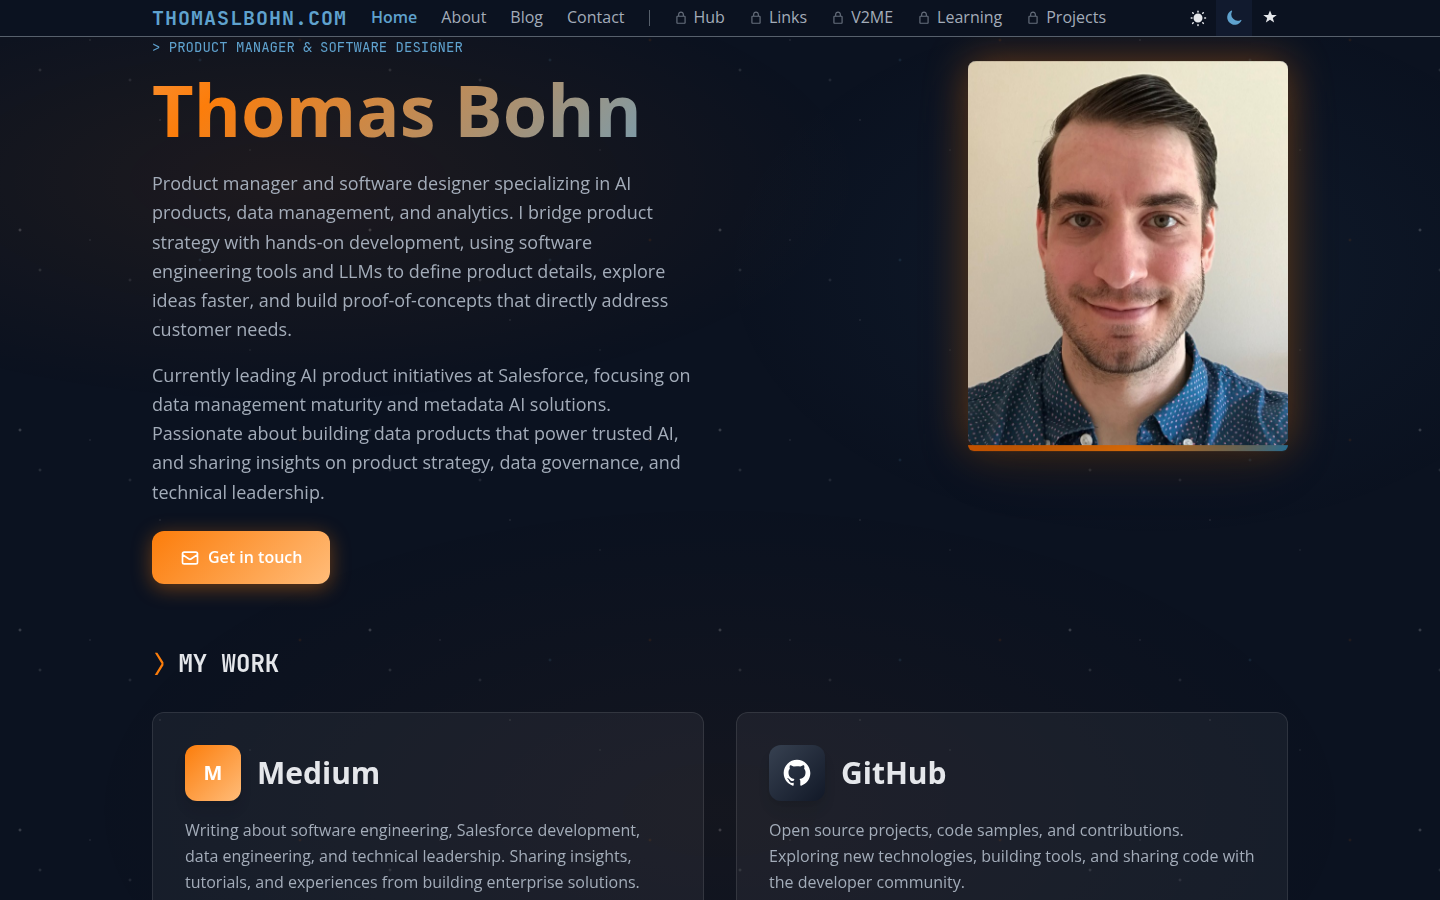
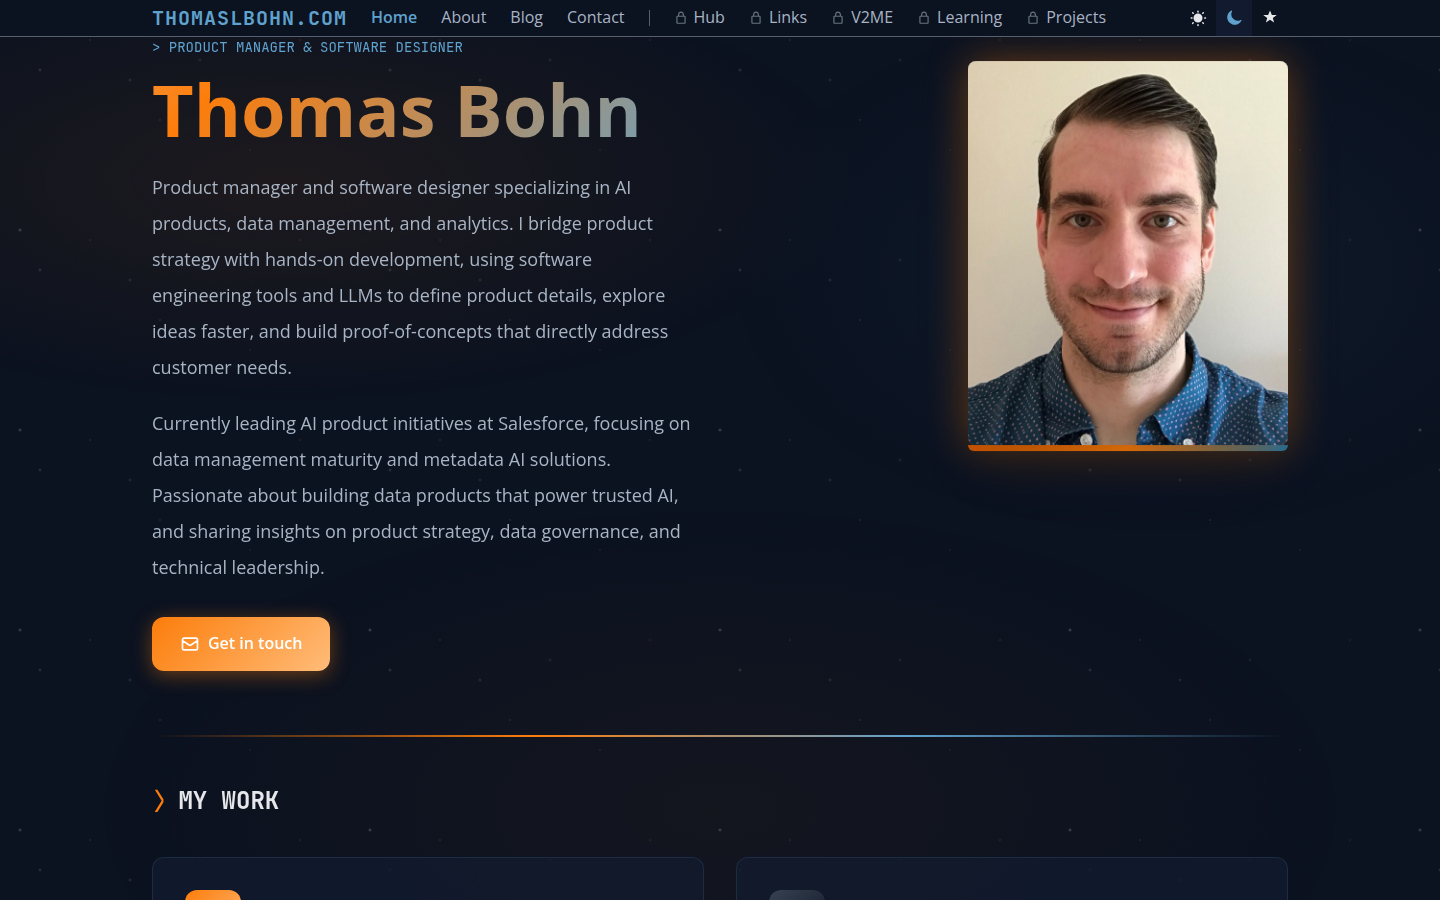
feat: Improve UI readability and visual flow
- Increase line height (leading-loose) for better text readability
- Add gradient divider between hero and content sections on homepage
- Enhance section spacing with more breathing room between sections
- Improve glass card contrast and hover effects in dark mode
- Apply consistent typography improvements across all pages
- Update screenshots to reflect UI improvements

diff --git a/app/about/page.tsx b/app/about/page.tsx
@@ -50,12 +50,12 @@ export default function About() {
 
             {/* Right column - About content */}
             <div className="prose prose-lg max-w-none fade-in-up fade-in-up-delay-2">
-              <section className="mb-8">
-                <h2 className="text-2xl font-semibold mb-4 text-text-primary font-mono flex items-center gap-3">
+              <section className="mb-10">
+                <h2 className="text-2xl font-semibold mb-6 text-text-primary font-mono flex items-center gap-3">
                   <span className="text-accent-orange">{'⟩'}</span>
                   {'ABOUT ME'}
                 </h2>
-              <div className="text-text-secondary leading-relaxed space-y-4">
+              <div className="text-text-secondary leading-loose space-y-5">
                 <p>
                   I&apos;m a product manager and software designer with 15+ years of experience 
                   leading data-driven solutions and AI products. At Salesforce, I serve as Senior 
@@ -104,12 +104,12 @@ export default function About() {
               </div>
             </section>
 
-            <section className="mb-8">
-              <h2 className="text-2xl font-semibold mb-4 text-text-primary font-mono flex items-center gap-3">
+            <section className="mb-10">
+              <h2 className="text-2xl font-semibold mb-6 text-text-primary font-mono flex items-center gap-3">
                 <span className="text-accent-orange">{'⟩'}</span>
                 {'PERSONAL HIGHLIGHTS'}
               </h2>
-              <div className="text-text-secondary leading-relaxed space-y-3">
+              <div className="text-text-secondary leading-loose space-y-4">
                 <p className="flex items-start gap-2">
                   <span className="text-accent mt-1">🎓</span>
                   <span>
@@ -141,12 +141,12 @@ export default function About() {
               </div>
             </section>
 
-            <section className="mb-8">
-              <h2 className="text-2xl font-semibold mb-4 text-text-primary font-mono flex items-center gap-3">
+            <section className="mb-10">
+              <h2 className="text-2xl font-semibold mb-6 text-text-primary font-mono flex items-center gap-3">
                 <span className="text-accent-orange">{'⟩'}</span>
                 {'WHAT DRIVES ME'}
               </h2>
-              <div className="text-text-secondary leading-relaxed space-y-3">
+              <div className="text-text-secondary leading-loose space-y-4">
                 <p className="flex items-start gap-2">
                   <span className="text-accent mt-1">🧩</span>
                   <span>
@@ -178,12 +178,12 @@ export default function About() {
               </div>
             </section>
 
-            <section className="mb-8">
-              <h2 className="text-2xl font-semibold mb-4 text-text-primary font-mono flex items-center gap-3">
+            <section className="mb-10">
+              <h2 className="text-2xl font-semibold mb-6 text-text-primary font-mono flex items-center gap-3">
                 <span className="text-accent-orange">{'⟩'}</span>
                 {'TECHNICAL EXPERTISE'}
               </h2>
-              <div className="text-text-secondary space-y-3">
+              <div className="text-text-secondary space-y-4">
                 <p className="flex items-start gap-2">
                   <span className="text-accent mt-1">🤖</span>
                   <span>
@@ -231,12 +231,12 @@ export default function About() {
               </div>
             </section>
 
-            <section className="mb-8">
-              <h2 className="text-2xl font-semibold mb-4 text-text-primary font-mono flex items-center gap-3">
+            <section className="mb-10">
+              <h2 className="text-2xl font-semibold mb-6 text-text-primary font-mono flex items-center gap-3">
                 <span className="text-accent-orange">{'⟩'}</span>
                 {'ABOUT THIS PAGE'}
               </h2>
-              <div className="text-text-secondary leading-relaxed space-y-4">
+              <div className="text-text-secondary leading-loose space-y-5">
                 <p>
                   Everything you see here I designed myself and implemented with the help of{' '}
                   <strong className="text-text-primary">Cursor AI agents</strong>. The website is built with{' '}

diff --git a/app/page.tsx b/app/page.tsx
@@ -21,13 +21,13 @@ export default function Home() {
                   Thomas Bohn
                 </span>
               </h1>
-              <p className="text-lg text-text-secondary leading-relaxed mb-4">
+              <p className="text-lg text-text-secondary leading-loose mb-5">
               Product manager and software designer specializing in AI products, data management, 
               and analytics. I bridge product strategy with hands-on development, using software 
               engineering tools and LLMs to define product details, explore ideas faster, and build 
               proof-of-concepts that directly address customer needs.
             </p>
-            <p className="text-lg text-text-secondary leading-relaxed mb-6">
+            <p className="text-lg text-text-secondary leading-loose mb-8">
               Currently leading AI product initiatives at Salesforce, focusing on data management 
               maturity and metadata AI solutions. Passionate about building data products that 
               power trusted AI, and sharing insights on product strategy, data governance, and 
@@ -72,9 +72,12 @@ export default function Home() {
           </div>
           </div>
 
+        {/* Gradient Divider */}
+        <hr className="gradient-divider fade-in-up fade-in-up-delay-2" />
+
         {/* Project Cards Section */}
-        <div className="mb-8 fade-in-up fade-in-up-delay-3">
-          <h2 className="text-2xl font-bold mb-8 text-text-primary font-mono flex items-center gap-3">
+        <div className="mb-12 fade-in-up fade-in-up-delay-3">
+          <h2 className="text-2xl font-bold mb-10 text-text-primary font-mono flex items-center gap-3">
             <span className="text-accent-orange">{'⟩'}</span>
             {'MY WORK'}
           </h2>
@@ -88,7 +91,7 @@ export default function Home() {
                 </div>
                 <h3 className="text-3xl font-bold text-text-primary">Medium</h3>
               </div>
-              <p className="text-text-secondary mb-6 leading-relaxed">
+              <p className="text-text-secondary mb-6 leading-loose">
                 Writing about software engineering, Salesforce development, data engineering, 
                 and technical leadership. Sharing insights, tutorials, and experiences from 
                 building enterprise solutions.
@@ -154,7 +157,7 @@ export default function Home() {
                 </div>
                 <h3 className="text-3xl font-bold text-text-primary">GitHub</h3>
               </div>
-              <p className="text-text-secondary mb-6 leading-relaxed">
+              <p className="text-text-secondary mb-6 leading-loose">
                 Open source projects, code samples, and contributions. Exploring new 
                 technologies, building tools, and sharing code with the developer community.
               </p>

diff --git a/app/globals.css b/app/globals.css
@@ -539,30 +539,36 @@ html[data-theme="xanga"] body ::-webkit-scrollbar-thumb:hover {
 
 /* Glassmorphism Card Styles */
 .glass-card {
-  background: rgba(255, 255, 255, 0.05);
+  background: rgba(255, 255, 255, 0.03);
   backdrop-filter: blur(12px);
-  border: 1px solid rgba(255, 255, 255, 0.1);
-  transition: all 0.25s cubic-bezier(0.4, 0, 0.2, 1);
+  border: 1px solid rgba(255, 255, 255, 0.08);
+  transition: all 0.3s cubic-bezier(0.4, 0, 0.2, 1);
 }
 
 [data-theme="light"] .glass-card {
-  background: rgba(248, 249, 250, 0.9);
+  background: rgba(255, 255, 255, 0.95);
   border: 1px solid var(--border);
+  box-shadow: 0 2px 8px rgba(0, 0, 0, 0.04);
+}
+
+[data-theme="dark"] .glass-card {
+  background: rgba(17, 26, 46, 0.8);
+  border: 1px solid rgba(95, 162, 206, 0.15);
 }
 
 .glass-card:hover {
-  transform: translateY(-4px);
-  box-shadow: 0 12px 40px rgba(252, 125, 11, 0.15);
+  transform: translateY(-6px);
+  box-shadow: 0 16px 48px rgba(252, 125, 11, 0.18);
 }
 
 [data-theme="light"] .glass-card:hover {
-  border-color: var(--accent-orange);
-  box-shadow: 0 12px 40px rgba(17, 112, 170, 0.15);
+  border-color: var(--accent);
+  box-shadow: 0 16px 48px rgba(17, 112, 170, 0.12);
 }
 
 [data-theme="dark"] .glass-card:hover {
   border-color: var(--accent-orange);
-  box-shadow: 0 12px 40px rgba(252, 125, 11, 0.2);
+  box-shadow: 0 16px 48px rgba(252, 125, 11, 0.25);
 }
 
 /* Gradient Button Style */
@@ -674,7 +680,46 @@ html[data-theme="xanga"] body ::-webkit-scrollbar-thumb:hover {
   height: 2px;
   background: linear-gradient(90deg, transparent, var(--accent-orange), var(--accent), transparent);
   border: none;
-  margin: 2rem 0;
+  margin: 3rem 0;
+}
+
+/* Improved Typography for Readability */
+.prose-readable {
+  line-height: 1.8;
+  letter-spacing: 0.01em;
+}
+
+.prose-readable p {
+  margin-bottom: 1.5em;
+}
+
+/* Section Spacing */
+.section-spacing {
+  margin-bottom: 4rem;
+}
+
+.section-spacing-sm {
+  margin-bottom: 2.5rem;
+}
+
+/* Enhanced Text Contrast for Dark Mode */
+[data-theme="dark"] .text-text-secondary {
+  color: #a8b4c4 !important;
+}
+
+/* Subtle Section Background */
+.section-highlight {
+  position: relative;
+  padding: 2rem;
+  border-radius: 1rem;
+}
+
+[data-theme="dark"] .section-highlight {
+  background: linear-gradient(135deg, rgba(17, 112, 170, 0.05), rgba(252, 125, 11, 0.03));
+}
+
+[data-theme="light"] .section-highlight {
+  background: linear-gradient(135deg, rgba(17, 112, 170, 0.03), rgba(252, 125, 11, 0.02));
 }
 
 /* Typewriter cursor effect */

diff --git a/app/blog/page.tsx b/app/blog/page.tsx
@@ -19,9 +19,9 @@ export default async function Blog() {
               <span className="text-accent-orange">{'⟩'}</span>
               {'BLOG'}
             </h1>
-            <p className="text-text-secondary leading-relaxed">
-              Frameworks, insights, and practical approaches to software engineering, data governance, and technical leadership.
-            </p>
+<p className="text-text-secondary leading-loose text-lg">
+            Frameworks, insights, and practical approaches to software engineering, data governance, and technical leadership.
+          </p>
           </div>
 
           {posts.length === 0 ? (
@@ -75,7 +75,7 @@ export default async function Blog() {
                     day: 'numeric',
                   })}
                 </p>
-                <p className="text-text-secondary leading-relaxed">
+                <p className="text-text-secondary leading-loose">
                   {post.excerpt}
                 </p>
                 <Link

diff --git a/app/contact/page.tsx b/app/contact/page.tsx
@@ -32,9 +32,9 @@ export default function Contact() {
               <span className="text-accent-orange">{'⟩'}</span>
               {'CONTACT'}
             </h1>
-            <p className="text-text-secondary leading-relaxed">
-              I'm always open to discussing new opportunities, technical challenges, or potential collaborations. Reach out through any of the channels below.
-            </p>
+<p className="text-text-secondary leading-loose text-lg">
+            I'm always open to discussing new opportunities, technical challenges, or potential collaborations. Reach out through any of the channels below.
+          </p>
           </div>
 
           <div className="space-y-6 fade-in-up fade-in-up-delay-1">
